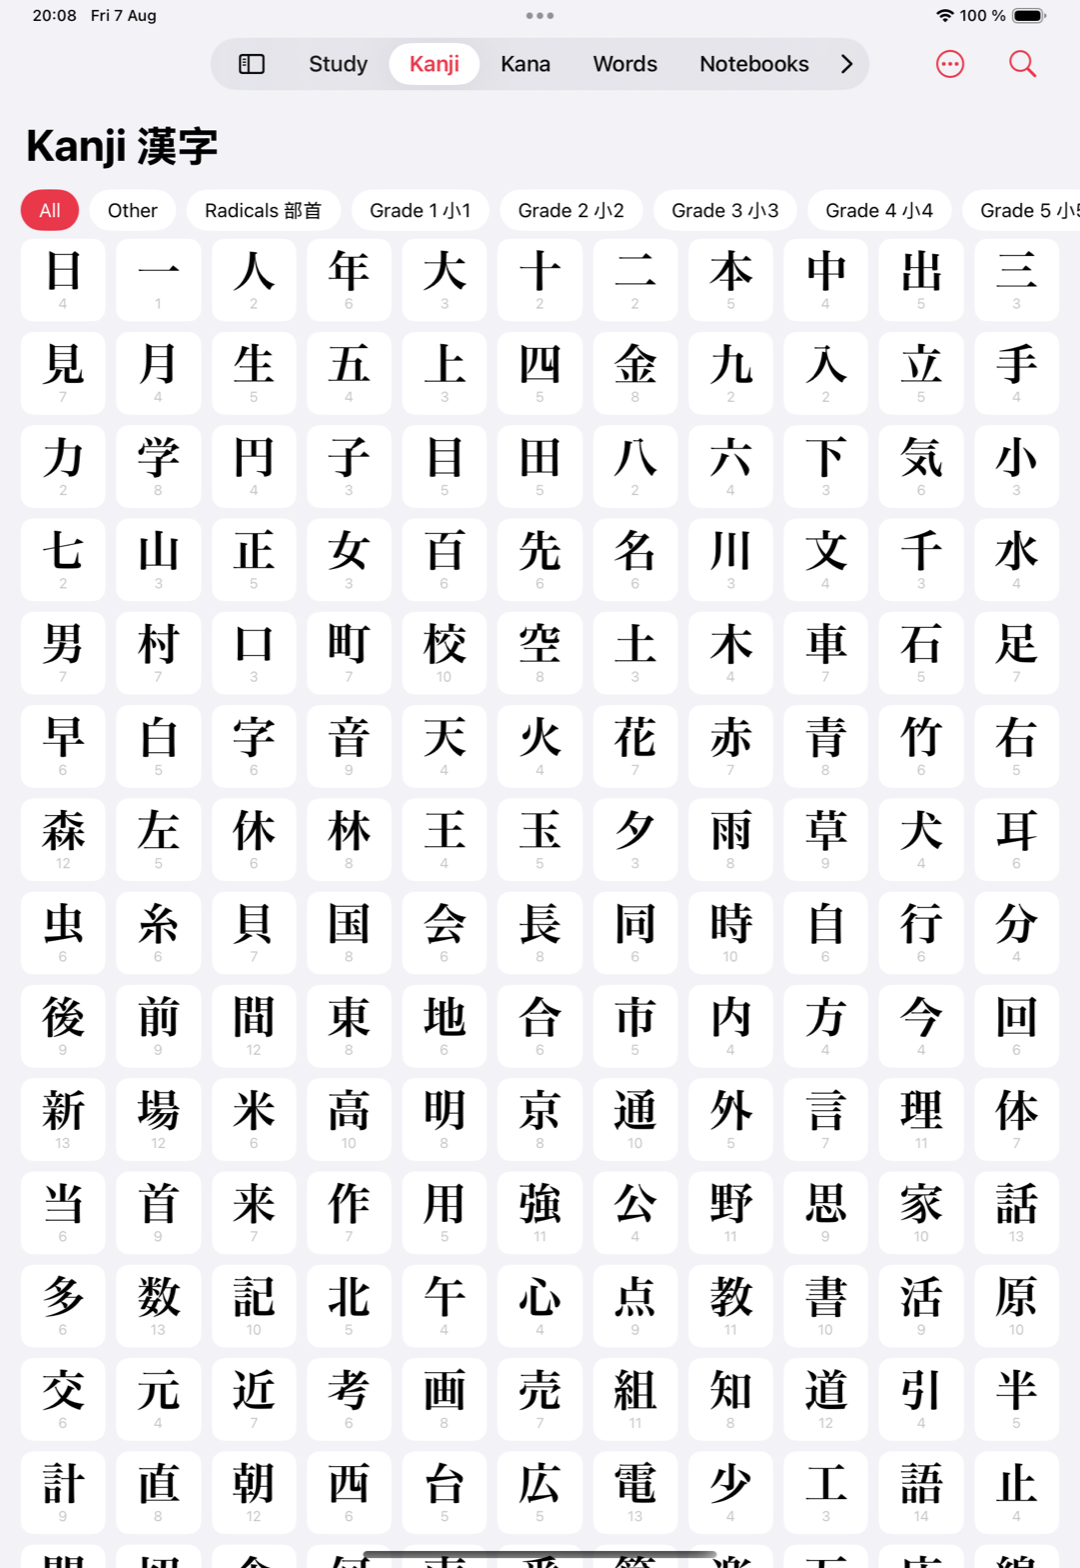
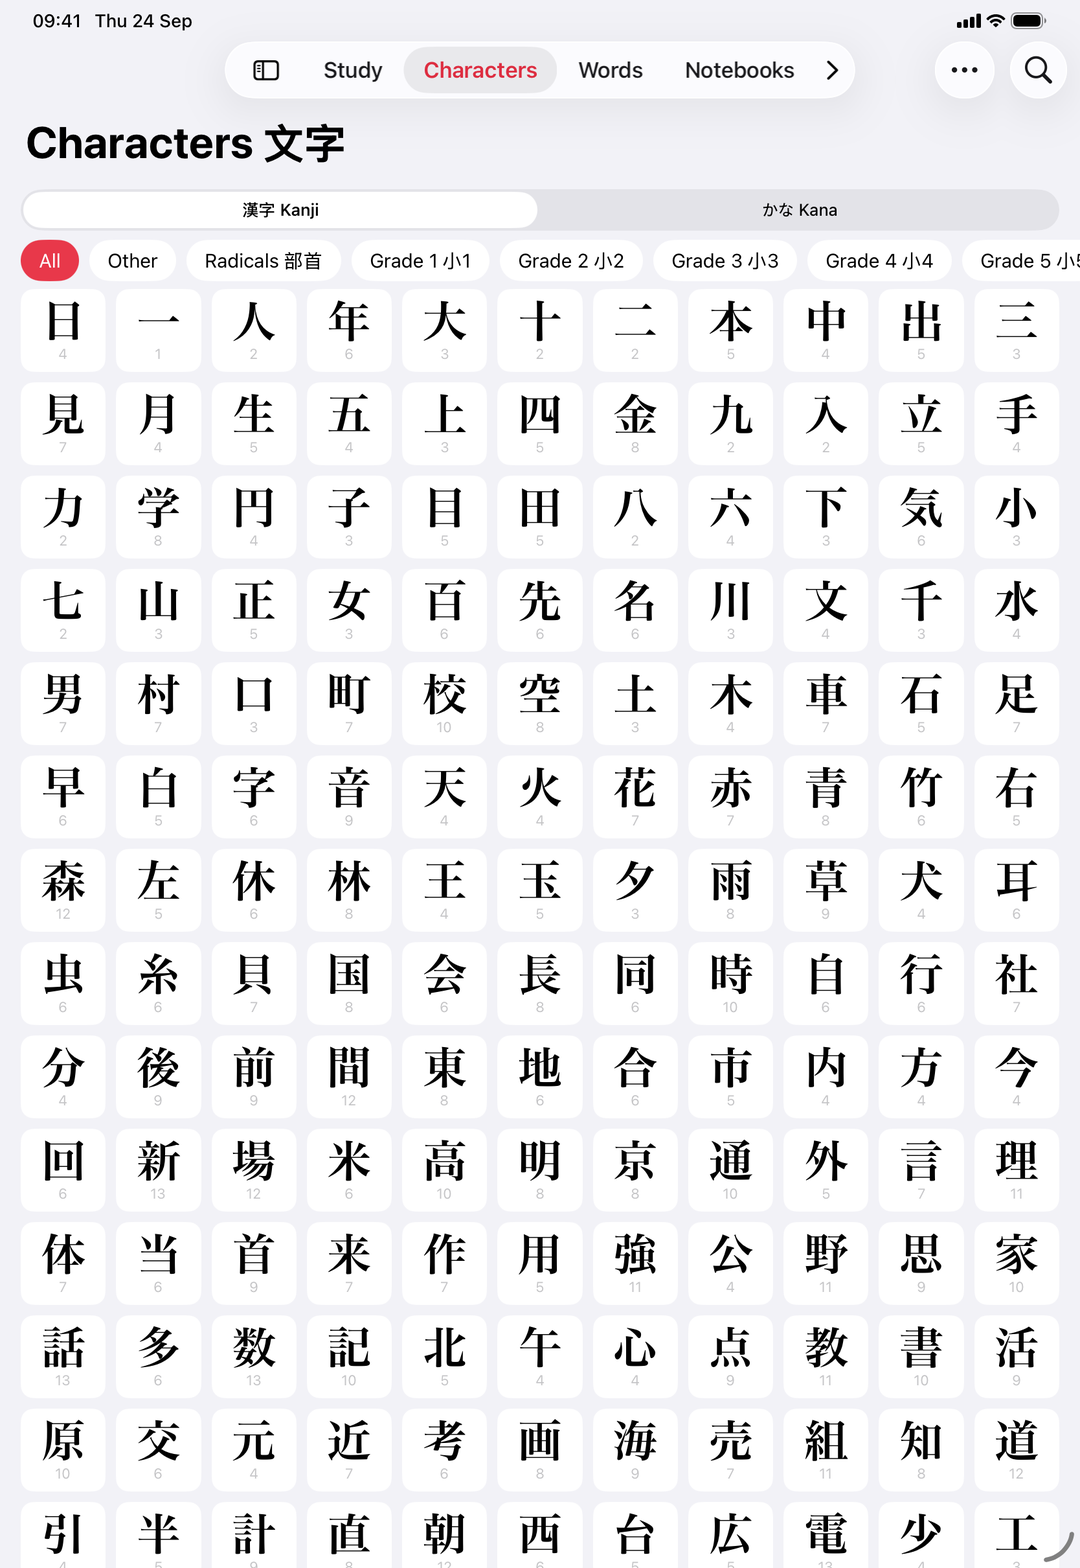
Screenshots from the current app, in the iOS 26 design
- All fourteen screenshots are re-taken from build 23 on iPadOS 26.5. The old
  set dated from August, before the Characters tab and the purchase.
- Image descriptions name the Characters tab, and the Settings shot is
  captioned "Finger or Pencil", since it now opens on the purchase and the pen.

Claude-Session: https://claude.ai/code/session_01QK3rR1saKXH3GytmYHh4Fh

diff --git a/index.html b/index.html
@@ -236,7 +236,7 @@ footer .legal{margin-top:34px;font-size:.82rem;color:rgba(255,255,255,.55)}
       <div class="device tilt">
         <img src="screens/05-kanji-detail-note.png" width="1080" height="1568"
              loading="lazy" decoding="async"
-             alt="A character's detail card: meanings, readings, where it stands, and a hand-written note.">
+             alt="A character's detail card: meanings, readings, where it stands, and a note of your own.">
       </div>
       <p class="caption">Tap 校. Meanings, readings, your own note.</p>
     </div>
@@ -330,12 +330,12 @@ footer .legal{margin-top:34px;font-size:.82rem;color:rgba(255,255,255,.55)}
     <p class="kicker reveal">The whole app</p>
     <h2 class="reveal">Every screen, drawn from<br>the real thing.</h2>
     <div class="gallery-grid">
-      <figure class="reveal"><div class="device"><img src="screens/03-kanji-browser.png" width="1080" height="1568" loading="lazy" decoding="async" alt="The kanji browser: a grid of characters with grade filters."></div><figcaption>Kanji — every grade</figcaption></figure>
-      <figure class="reveal"><div class="device"><img src="screens/06-kana-browser.png" width="1080" height="1568" loading="lazy" decoding="async" alt="The kana browser: hiragana and katakana in full."></div><figcaption>Kana — complete</figcaption></figure>
+      <figure class="reveal"><div class="device"><img src="screens/03-kanji-browser.png" width="1080" height="1568" loading="lazy" decoding="async" alt="The Characters tab on 漢字 Kanji: a grid of characters with grade filters."></div><figcaption>Kanji — every grade</figcaption></figure>
+      <figure class="reveal"><div class="device"><img src="screens/06-kana-browser.png" width="1080" height="1568" loading="lazy" decoding="async" alt="The Characters tab on かな Kana: hiragana and katakana in full."></div><figcaption>Kana — complete</figcaption></figure>
       <figure class="reveal"><div class="device"><img src="screens/07-words.png" width="1080" height="1568" loading="lazy" decoding="async" alt="The words list, each with reading and meaning."></div><figcaption>Words &amp; sentences</figcaption></figure>
       <figure class="reveal"><div class="device"><img src="screens/01-study-home.png" width="1080" height="1568" loading="lazy" decoding="async" alt="The Study home: due, new, enrolled, and your decks."></div><figcaption>Today's queue</figcaption></figure>
       <figure class="reveal"><div class="device"><img src="screens/11-deck-page.png" width="1080" height="1568" loading="lazy" decoding="async" alt="Inside a deck: its cards with stroke counts and SRS state."></div><figcaption>Inside a deck</figcaption></figure>
-      <figure class="reveal"><div class="device"><img src="screens/12-settings.png" width="1080" height="1568" loading="lazy" decoding="async" alt="Settings: pen, grading strictness, and daily limits."></div><figcaption>Grade &amp; pen</figcaption></figure>
+      <figure class="reveal"><div class="device"><img src="screens/12-settings.png" width="1080" height="1568" loading="lazy" decoding="async" alt="Settings: the one-time purchase, then the pen — write with a finger or the Pencil, fineliner or calligraphy, and the stroke width."></div><figcaption>Finger or Pencil</figcaption></figure>
       <figure class="reveal"><div class="device"><img src="screens/09-notebook-options.png" width="1080" height="1568" loading="lazy" decoding="async" alt="New notebook options: vertical or horizontal, squares, furigana, or spaced."></div><figcaption>Make a notebook</figcaption></figure>
     </div>
   </div>
